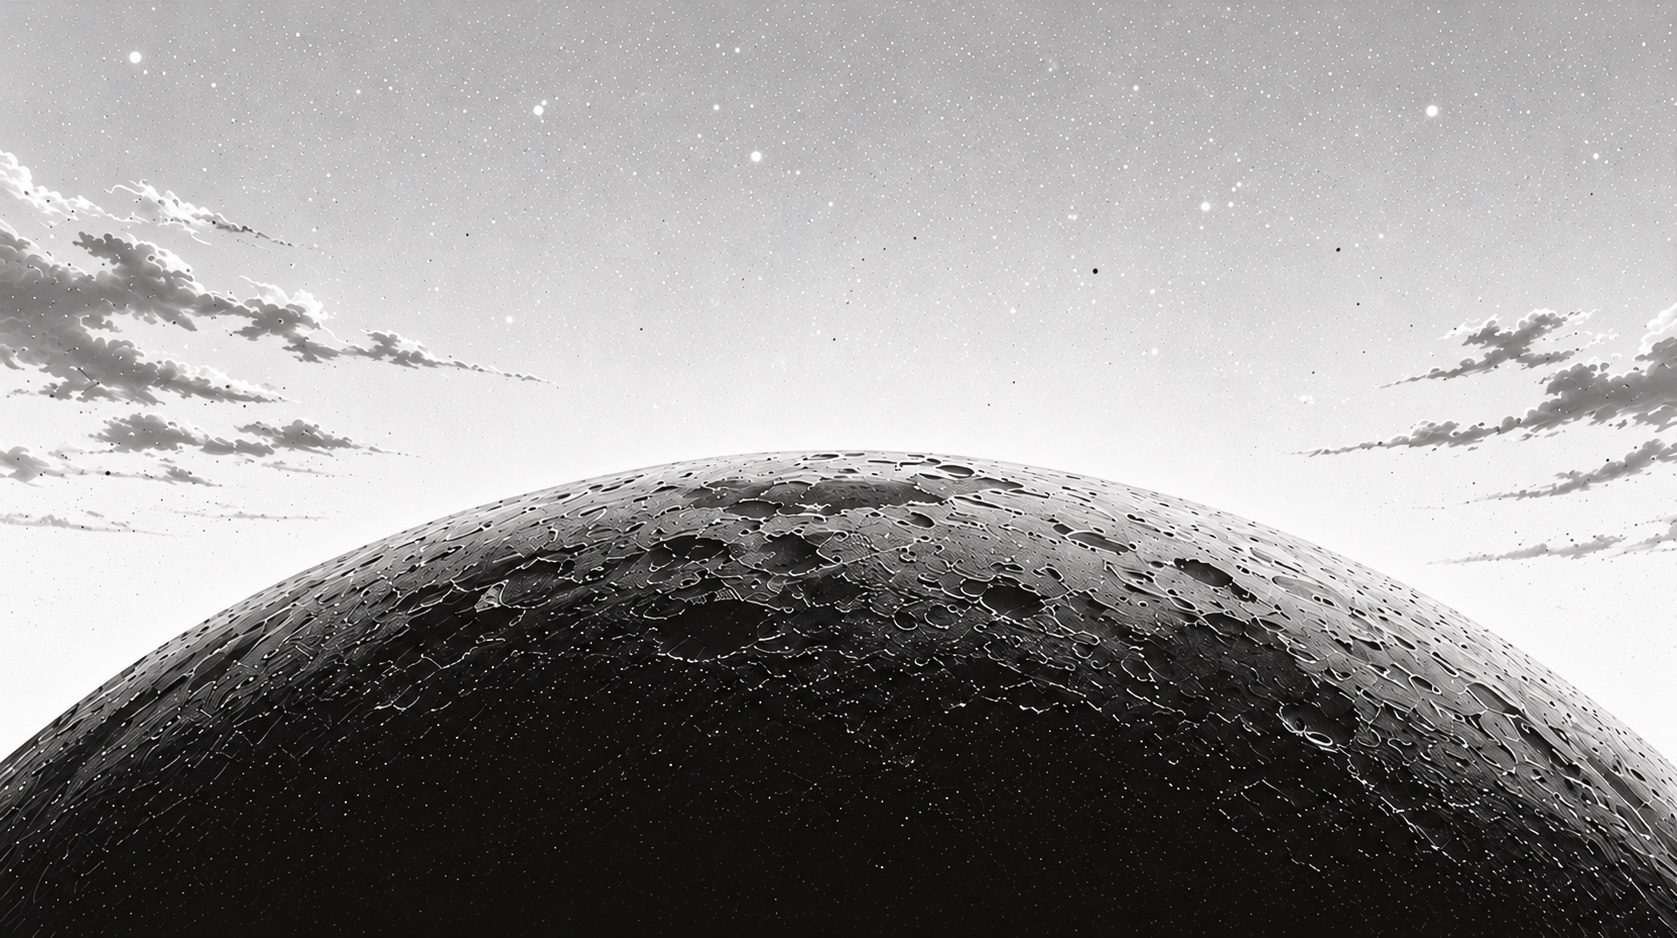
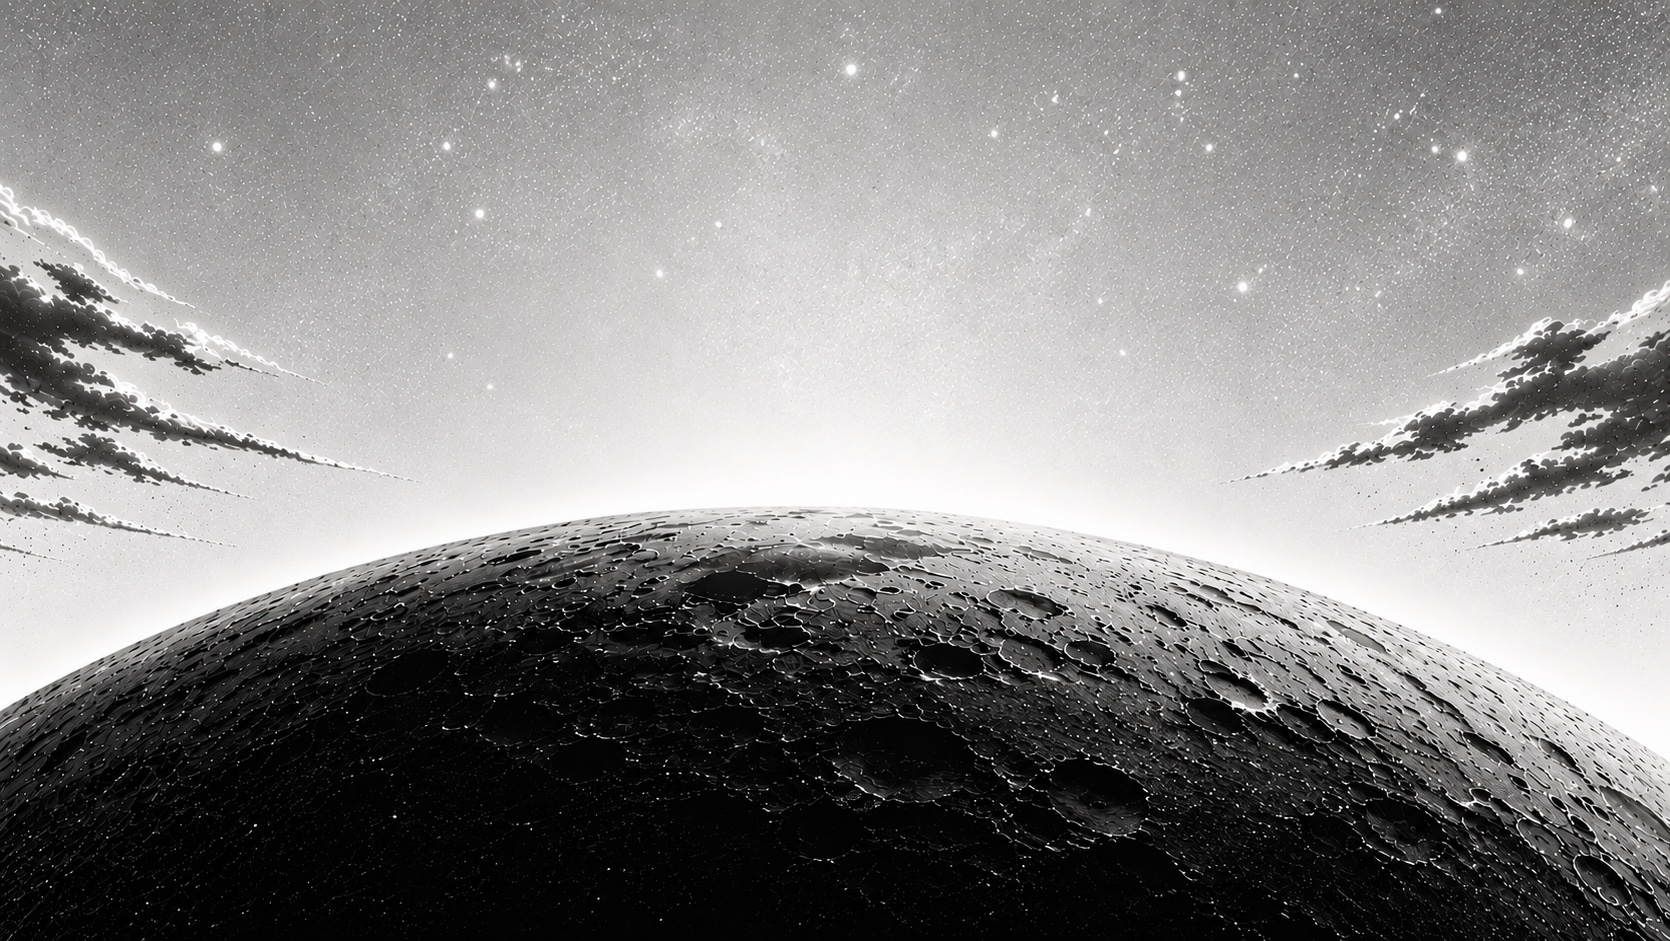
v3: darker moon background, glass nav, later hero fade
Claude-Session: https://claude.ai/code/session_018duJTDDwcyCpFZ6TaevowC

diff --git a/static/v3.css b/static/v3.css
@@ -47,11 +47,11 @@ h2{font-size:32px;line-height:1.2;letter-spacing:-.02em}
 /* a pill from the first pixel; after the first scroll it lifts and narrows */
 .nav{position:fixed;top:0;left:0;right:0;z-index:20;padding:10px clamp(12px,3vw,32px) 0;pointer-events:none}
 .nav-in{pointer-events:auto;display:flex;align-items:center;justify-content:space-between;gap:20px;height:60px;padding:0 8px 0 20px;
-  background:rgba(255,255,255,.82);border:1px solid rgba(10,10,10,.1);border-radius:999px;
-  -webkit-backdrop-filter:blur(16px) saturate(1.2);backdrop-filter:blur(16px) saturate(1.2);
+  background:rgba(255,255,255,.5);border:1px solid rgba(255,255,255,.55);box-shadow:inset 0 1px 0 rgba(255,255,255,.6);border-radius:999px;
+  -webkit-backdrop-filter:blur(22px) saturate(1.4);backdrop-filter:blur(22px) saturate(1.4);
   box-shadow:0 1px 2px rgba(10,10,10,.04),0 16px 40px -24px rgba(10,10,10,.35);
   transition:max-width .45s var(--ease),height .45s var(--ease),margin .45s var(--ease),background-color .45s var(--ease),box-shadow .45s var(--ease)}
-.nav.is-floating .nav-in{max-width:880px;height:54px;background:rgba(255,255,255,.9);box-shadow:0 1px 2px rgba(10,10,10,.05),0 18px 44px -22px rgba(10,10,10,.4)}
+.nav.is-floating .nav-in{max-width:880px;height:54px;background:rgba(255,255,255,.62);border-color:rgba(10,10,10,.08);box-shadow:0 1px 2px rgba(10,10,10,.05),0 18px 44px -22px rgba(10,10,10,.4)}
 .nav.is-floating .btn-sm{min-height:36px}
 .nav-r{display:flex;align-items:center;gap:30px}
 .brand{display:inline-flex;align-items:center;gap:9px;font:500 19px/1 var(--f);letter-spacing:-.02em;color:var(--ink)}
@@ -69,11 +69,11 @@ h2{font-size:32px;line-height:1.2;letter-spacing:-.02em}
 .hero-sub{font-size:clamp(16px,1.25vw,19px);line-height:1.5;color:#2A2A28;max-width:58ch}
 .hero .ctas{margin-top:6px}
 /* the sky and the product both dissolve into the page, no hard edge */
-.hero::after{content:"";position:absolute;left:0;right:0;bottom:0;height:36%;z-index:1;pointer-events:none;
-  background:linear-gradient(to bottom,rgba(255,255,255,0) 0%,rgba(255,255,255,.6) 50%,#fff 100%)}
+.hero::after{content:"";position:absolute;left:0;right:0;bottom:0;height:26%;z-index:1;pointer-events:none;
+  background:linear-gradient(to bottom,rgba(255,255,255,0) 0%,rgba(255,255,255,.55) 55%,#fff 100%)}
 /* the product rises from below the fold; only its top is meant to show */
 .dash-wrap{position:absolute;left:0;right:0;top:63%;bottom:0;z-index:3;padding-inline:clamp(12px,4vw,40px);overflow:hidden;
-  -webkit-mask-image:linear-gradient(to bottom,#000 58%,transparent 100%);mask-image:linear-gradient(to bottom,#000 58%,transparent 100%)}
+  -webkit-mask-image:linear-gradient(to bottom,#000 72%,transparent 100%);mask-image:linear-gradient(to bottom,#000 72%,transparent 100%)}
 .dash{width:min(1180px,100%);margin-inline:auto;height:640px;display:grid;grid-template-columns:220px minmax(0,1fr) 300px;
   background:rgba(255,255,255,.96);border:1px solid rgba(10,10,10,.14);border-radius:14px;overflow:hidden;
   box-shadow:0 30px 80px -30px rgba(0,0,0,.55),0 2px 6px rgba(0,0,0,.08);

diff --git a/index.html b/index.html
@@ -22,7 +22,7 @@
 <link rel="preconnect" href="https://fonts.gstatic.com" crossorigin>
 <link href="https://fonts.googleapis.com/css2?family=Geist:wght@400;500&display=swap" rel="stylesheet">
 <link rel="preload" as="image" href="/static/moon.jpg">
-<link rel="stylesheet" href="/static/v3.css?v=2">
+<link rel="stylesheet" href="/static/v3.css?v=3">
 </head>
 <body>
 <a class="skip" href="#main">Skip to content</a>
